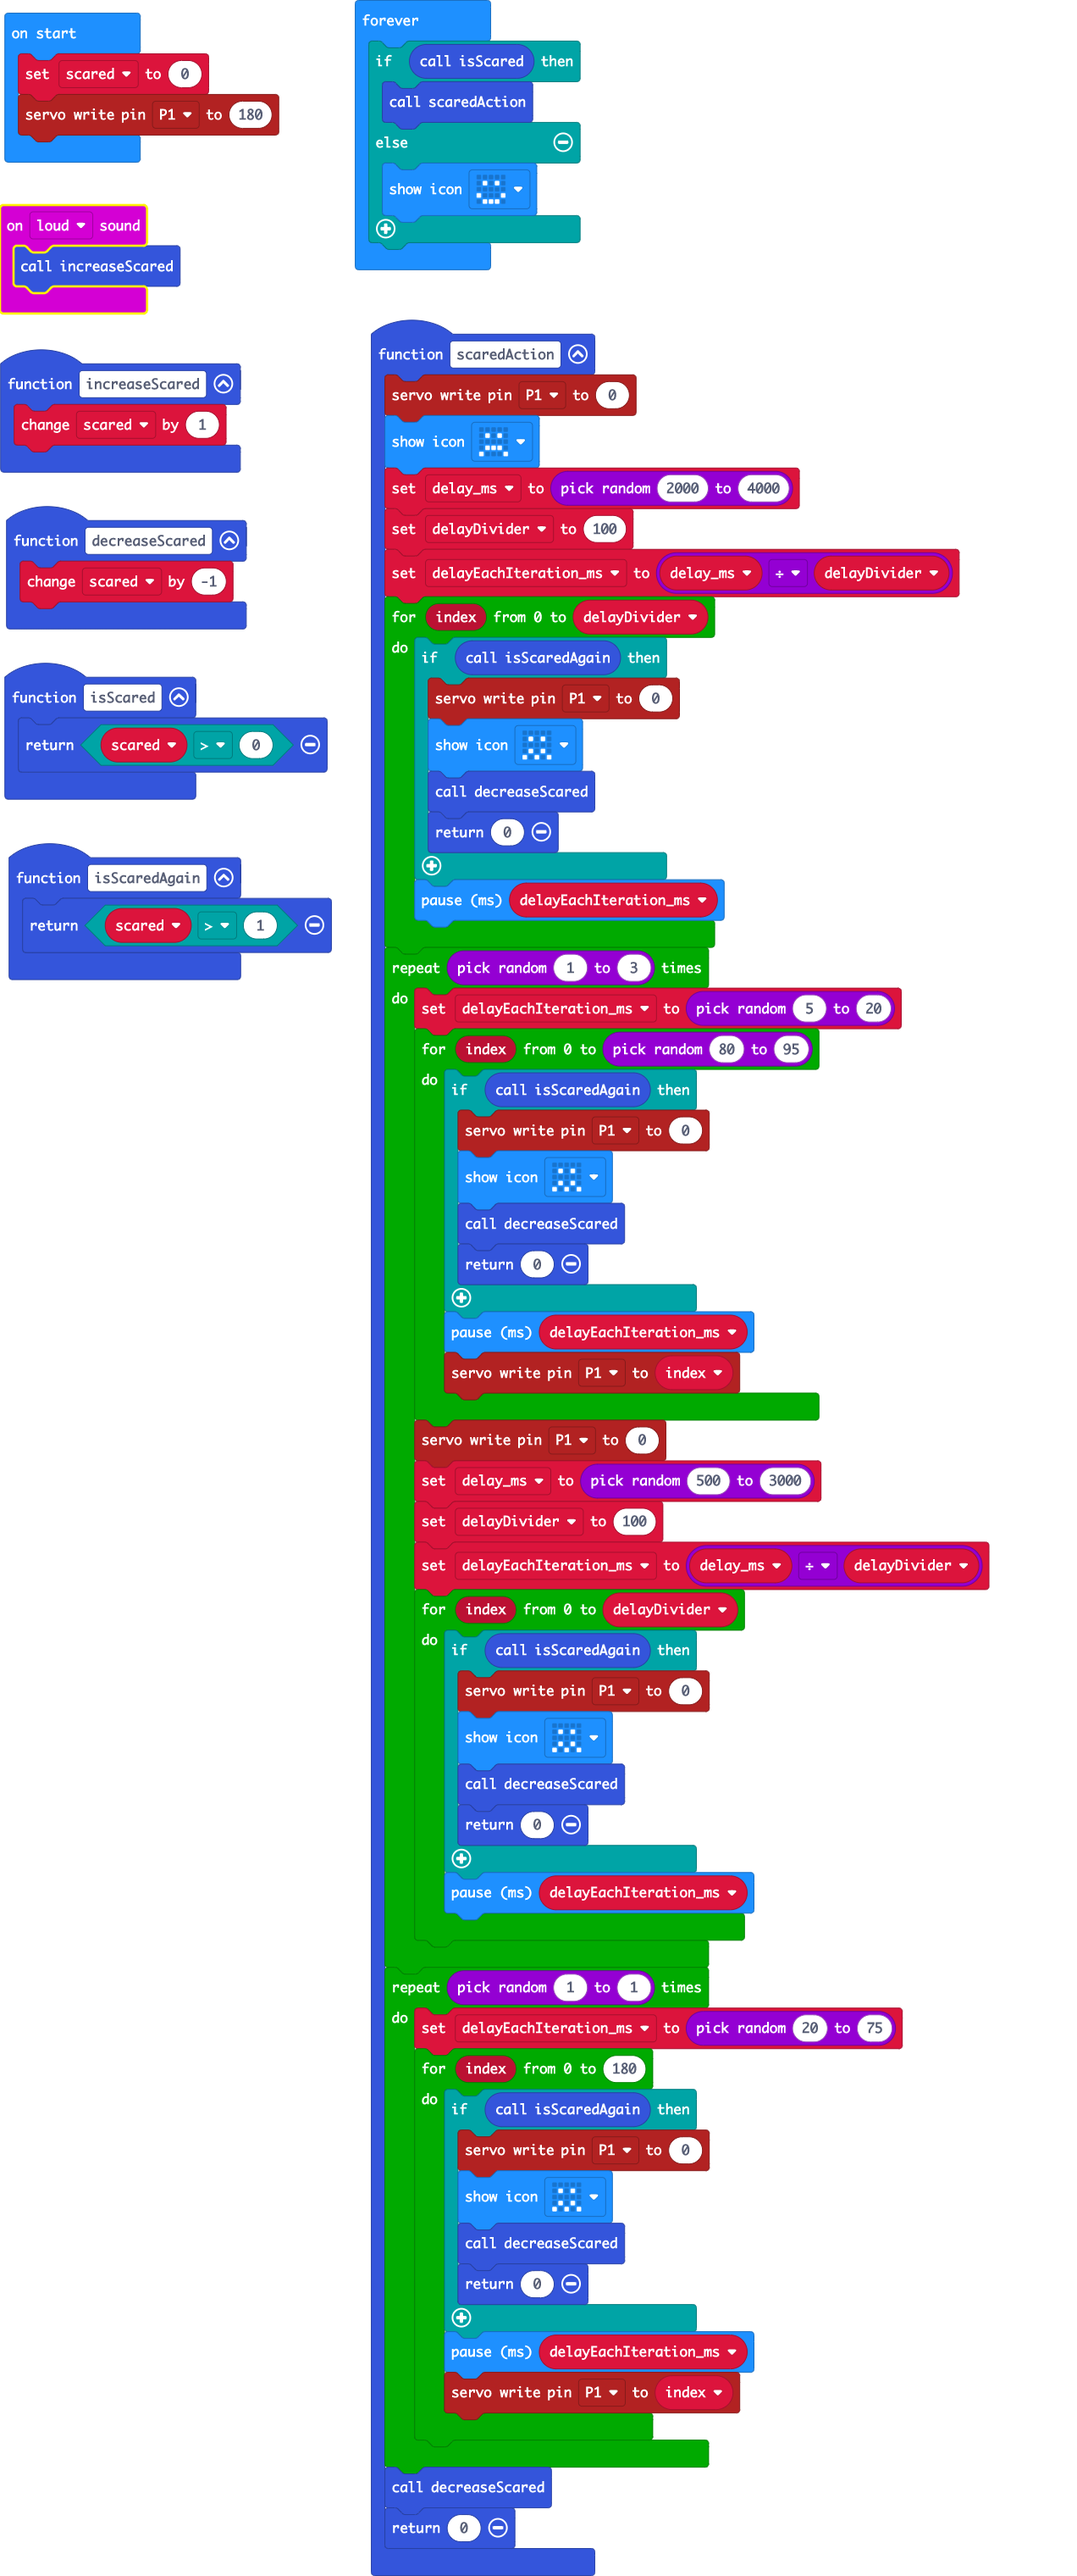
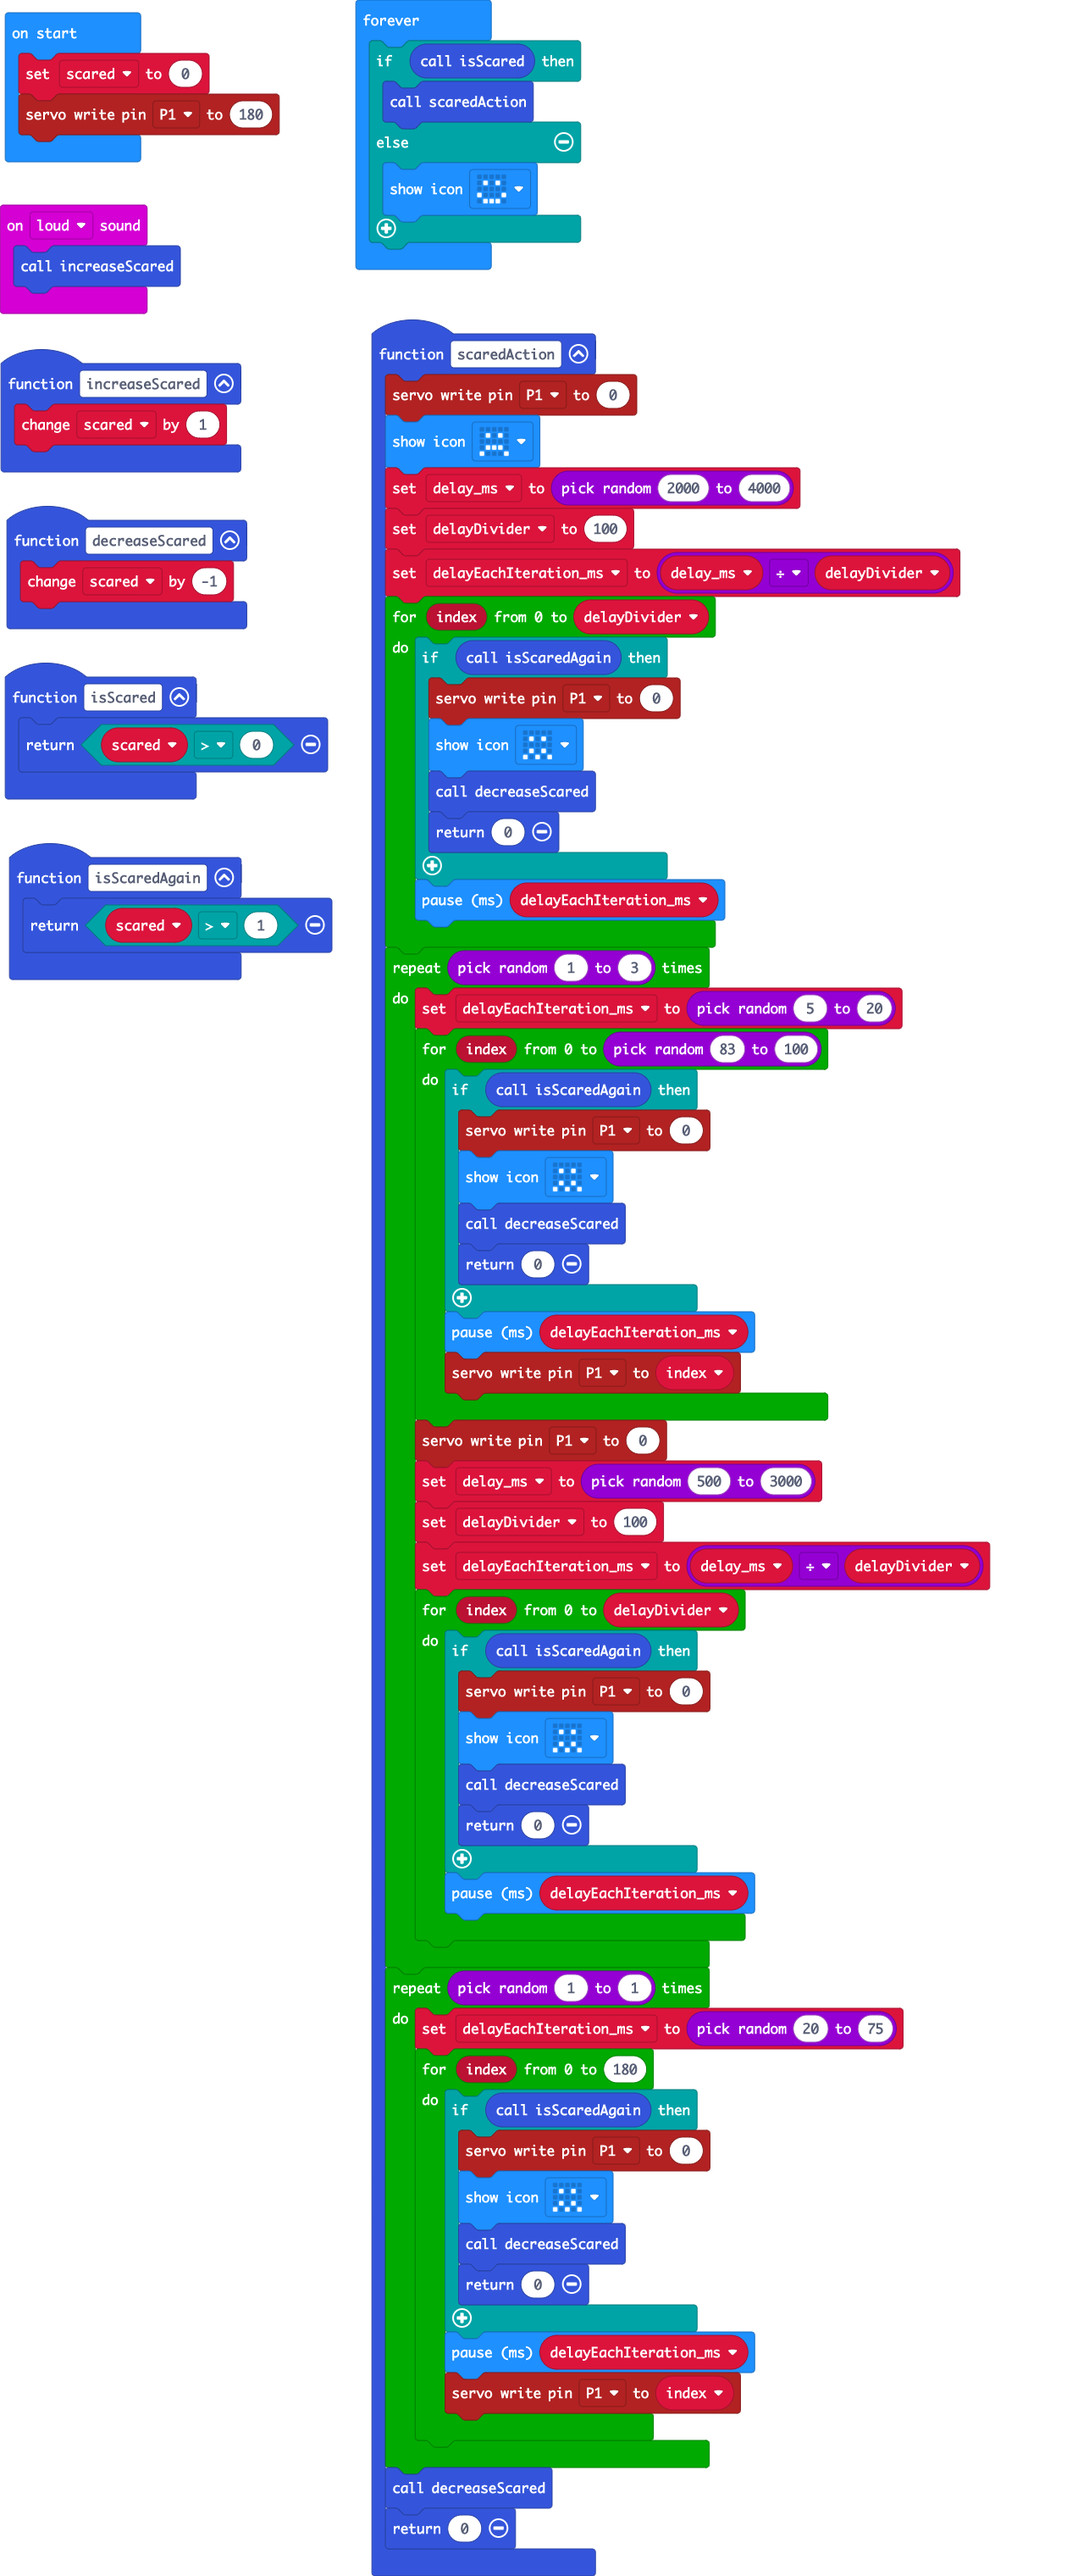
Fine-tuned eye height (for servo-controlled physical robot).

diff --git a/main.ts b/main.ts
@@ -21,7 +21,7 @@ function scaredAction () {
     }
     for (let index = 0; index < randint(1, 3); index++) {
         delayEachIteration_ms = randint(5, 20)
-        for (let index = 0; index <= randint(80, 95); index++) {
+        for (let index = 0; index <= randint(83, 100); index++) {
             if (isScaredAgain()) {
                 pins.servoWritePin(AnalogPin.P1, 0)
                 basic.showIcon(IconNames.Confused)
